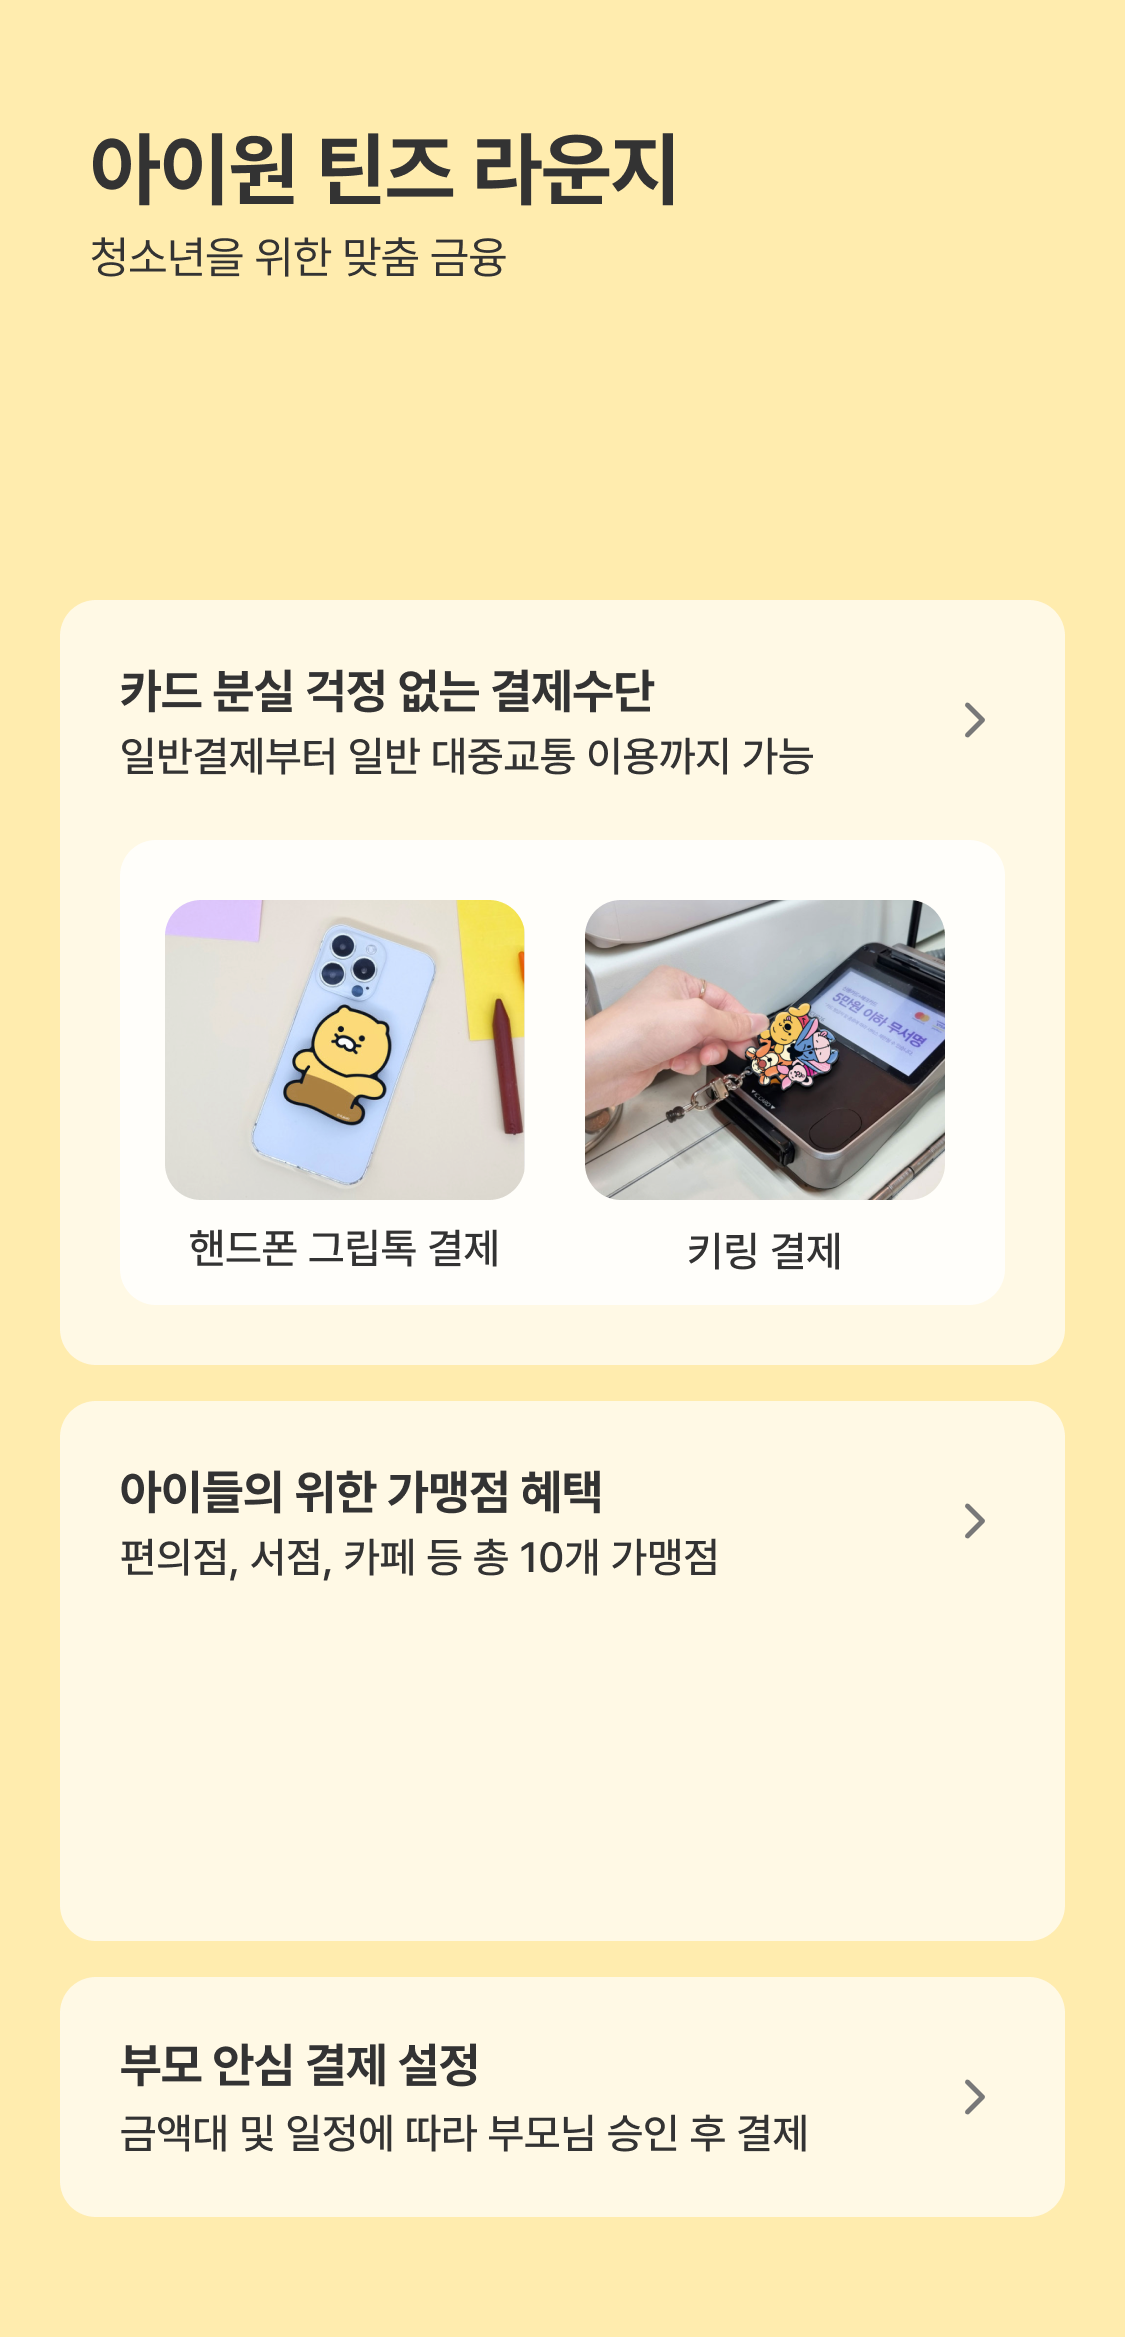
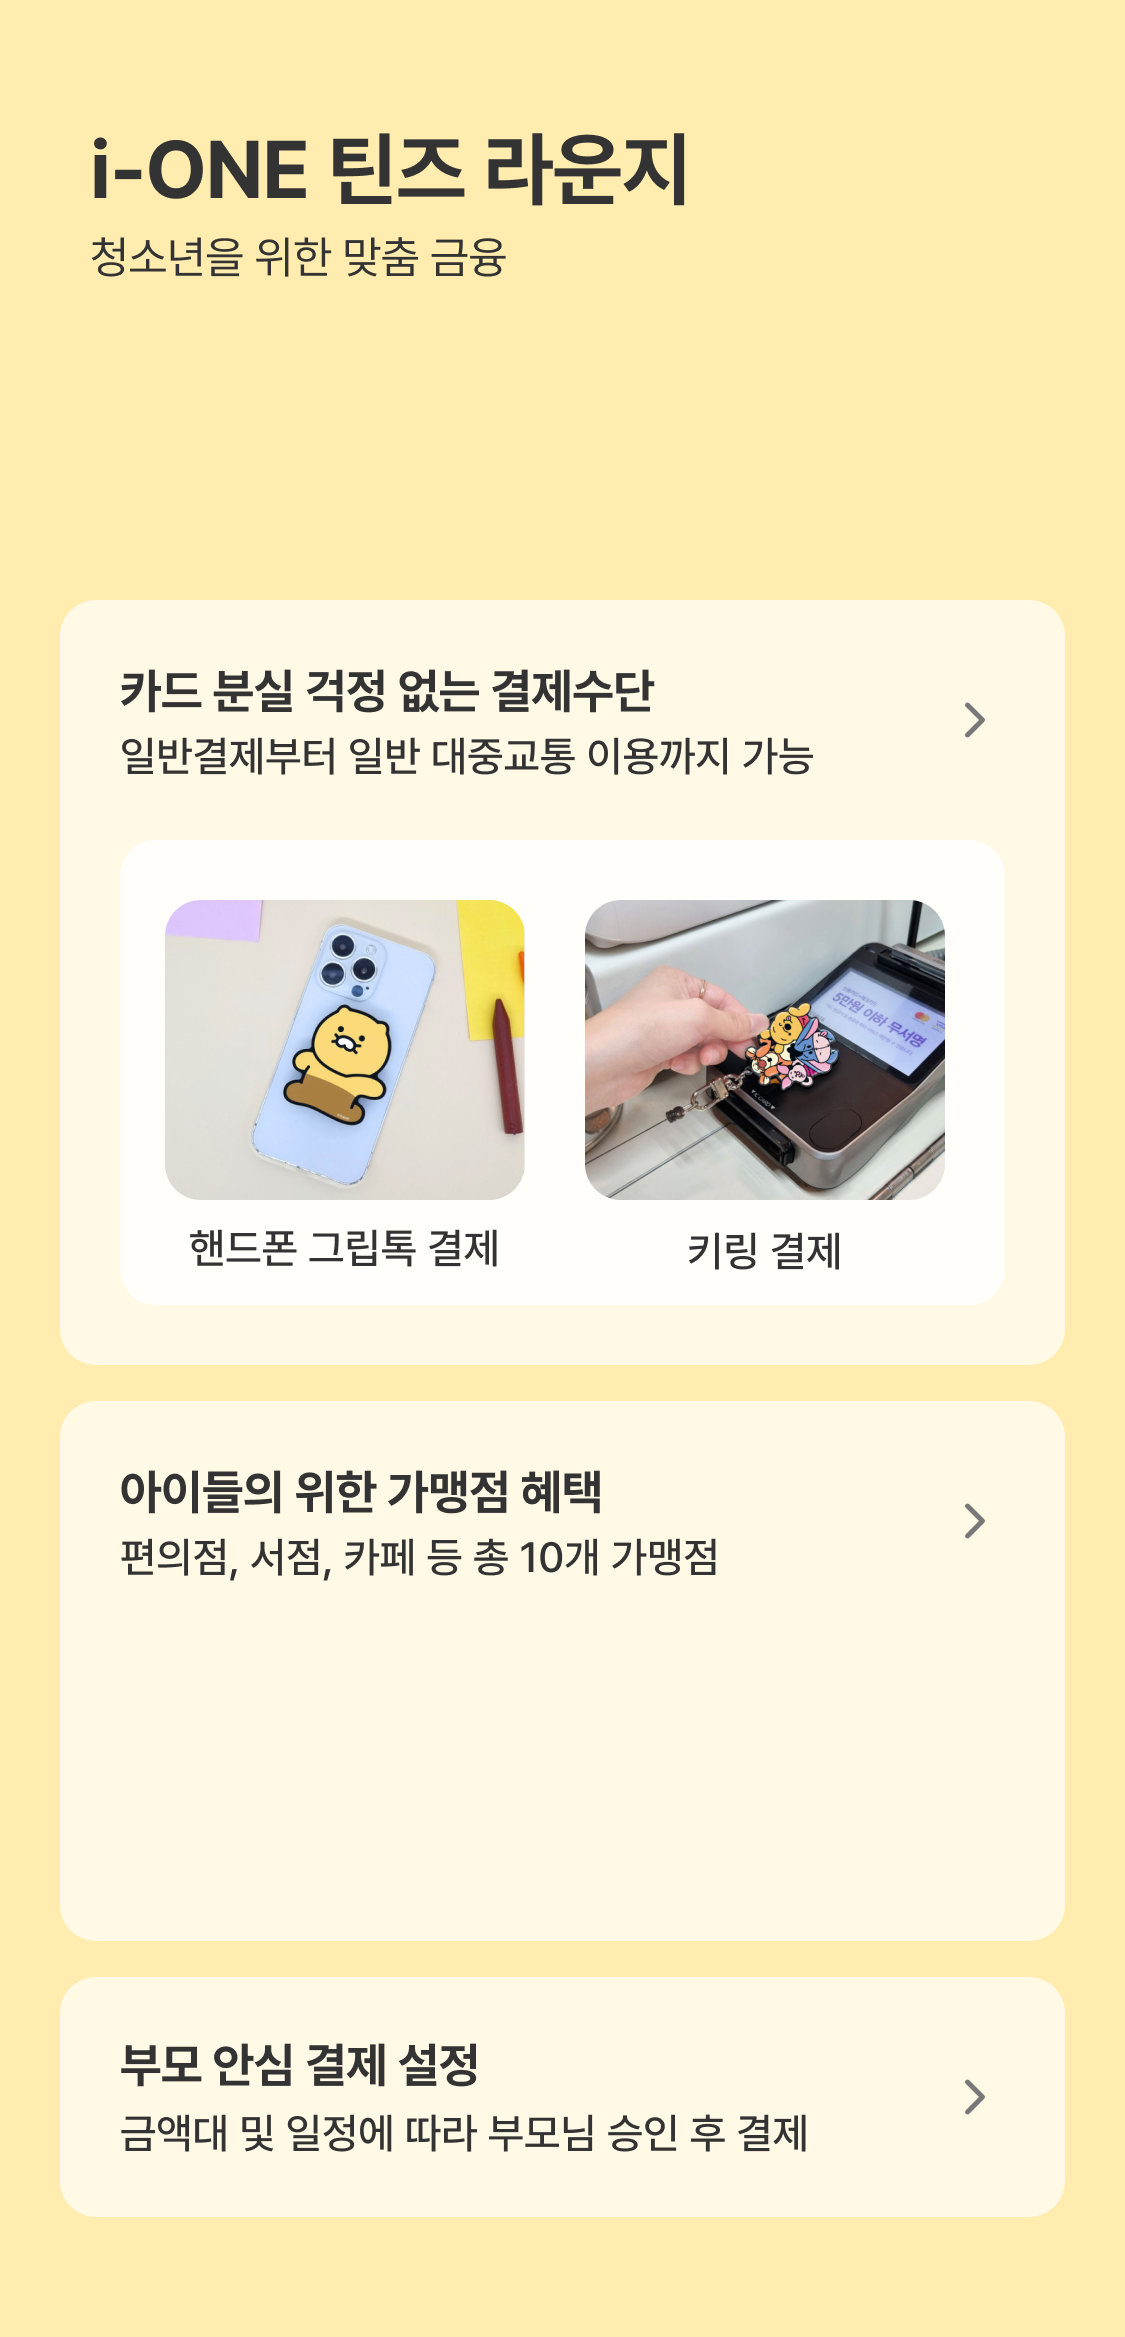
이미지 및 텍스트 수정

Changed region(s): [[0.0622, 0.0312, 0.6222, 0.0937]]

diff --git a/IBK/lounge.html b/IBK/lounge.html
@@ -84,7 +84,7 @@
             <div class="swiper tab-btn">
                 <div class="swiper-wrapper">
                     <div class="swiper-slide active" data-target="tab-1">패밀리</div>
-                    <div class="swiper-slide" data-target="tab-2">아이원 틴즈</div>
+                    <div class="swiper-slide" data-target="tab-2">i-ONE 틴즈</div>
                     <div class="swiper-slide" data-target="tab-3">직장인</div>
                     <div class="swiper-slide" data-target="tab-4">군인</div>
                     <div class="swiper-slide" data-target="tab-5">60+</div>
